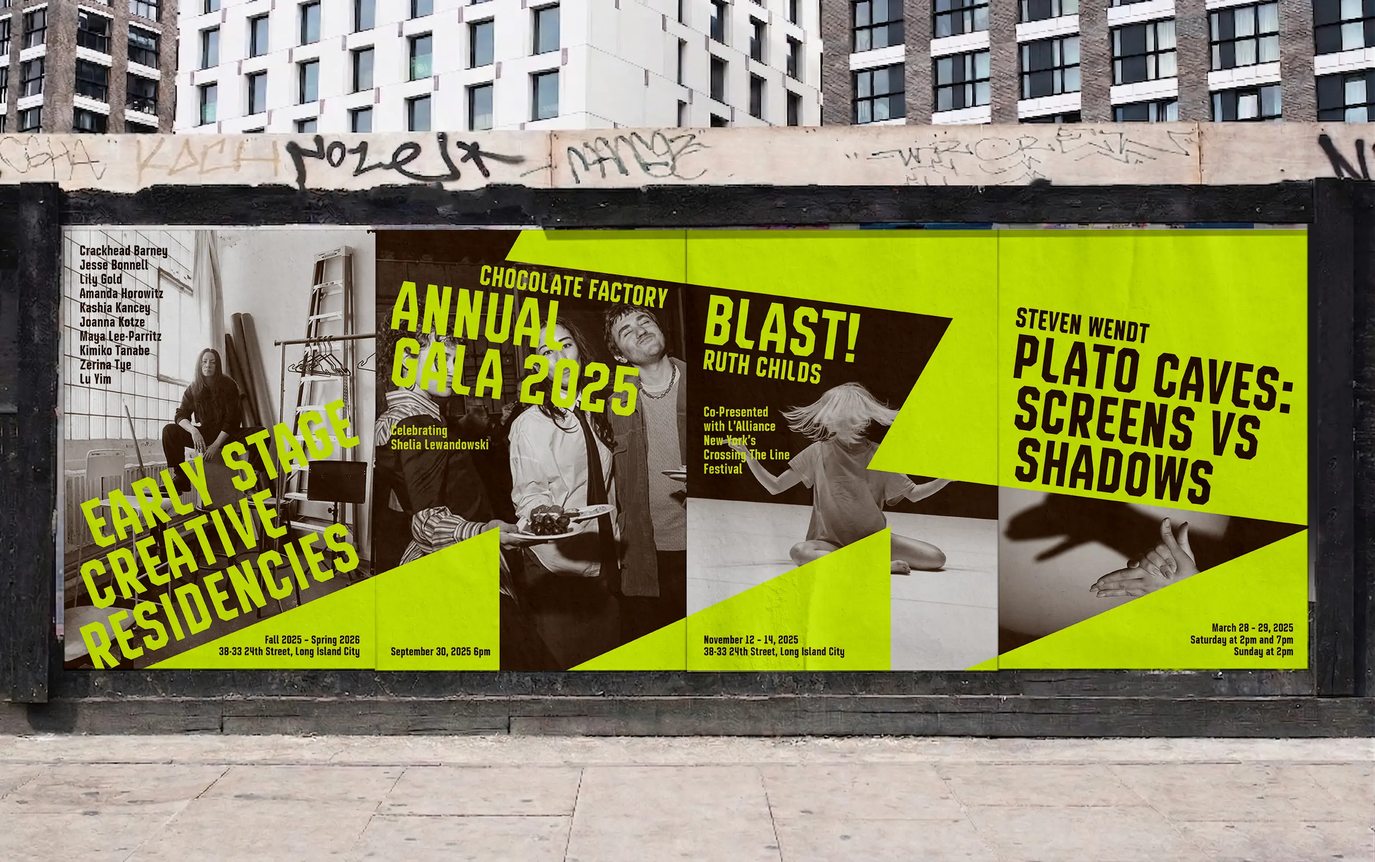
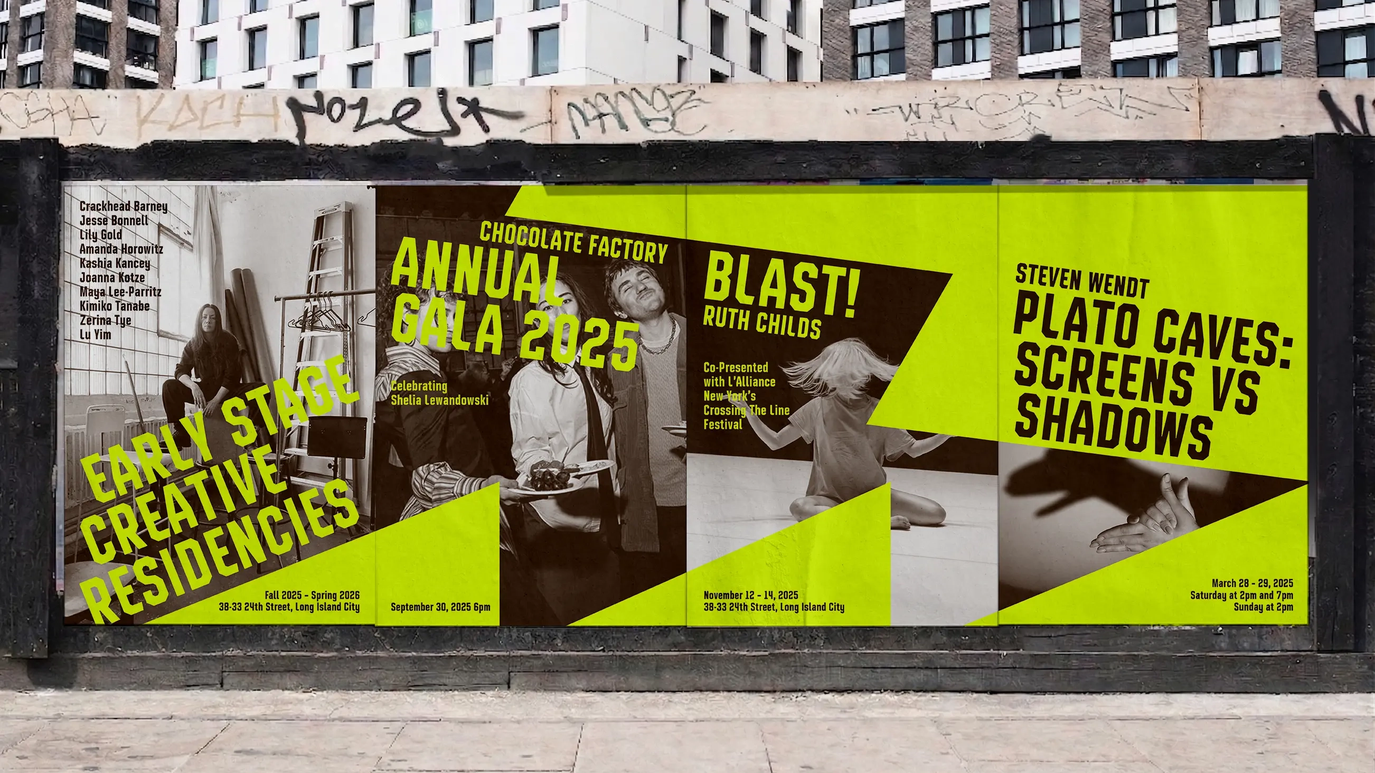
thumbnail

diff --git a/website/css/style3.css b/website/css/style3.css
@@ -270,14 +270,19 @@ html, body {
 
 .thumbnail {
   width: 100%;
-
   margin-bottom: 10px;
 }
 
 .thumbnail img,
 .thumbnail video {
   width: 100%;
-  height: auto;
+  
+  /* 🚨 핵심 1: 이미지 자체의 키가 500px을 못 넘게 멱살을 잡습니다 */
+  max-height: 400px; 
+  
+  /* 🚨 핵심 2: 비율 100% 유지하면서, 절대 자르지 말고 박스 안에 쏙 넣기! */
+  object-fit: contain; 
+  
   display: block;
 }
 

diff --git a/website/index.html b/website/index.html
@@ -70,7 +70,7 @@
 
           <a href="./html/blockParty.html" class="project-item">
             <div class="thumbnail">
-              <img src="./images/blockparty/title.webp">
+              <img src="./images/blockparty/posterset.webp">
             </div>
             <div class="project-meta">
               <p class="project-name">Block Party Festival</p>
